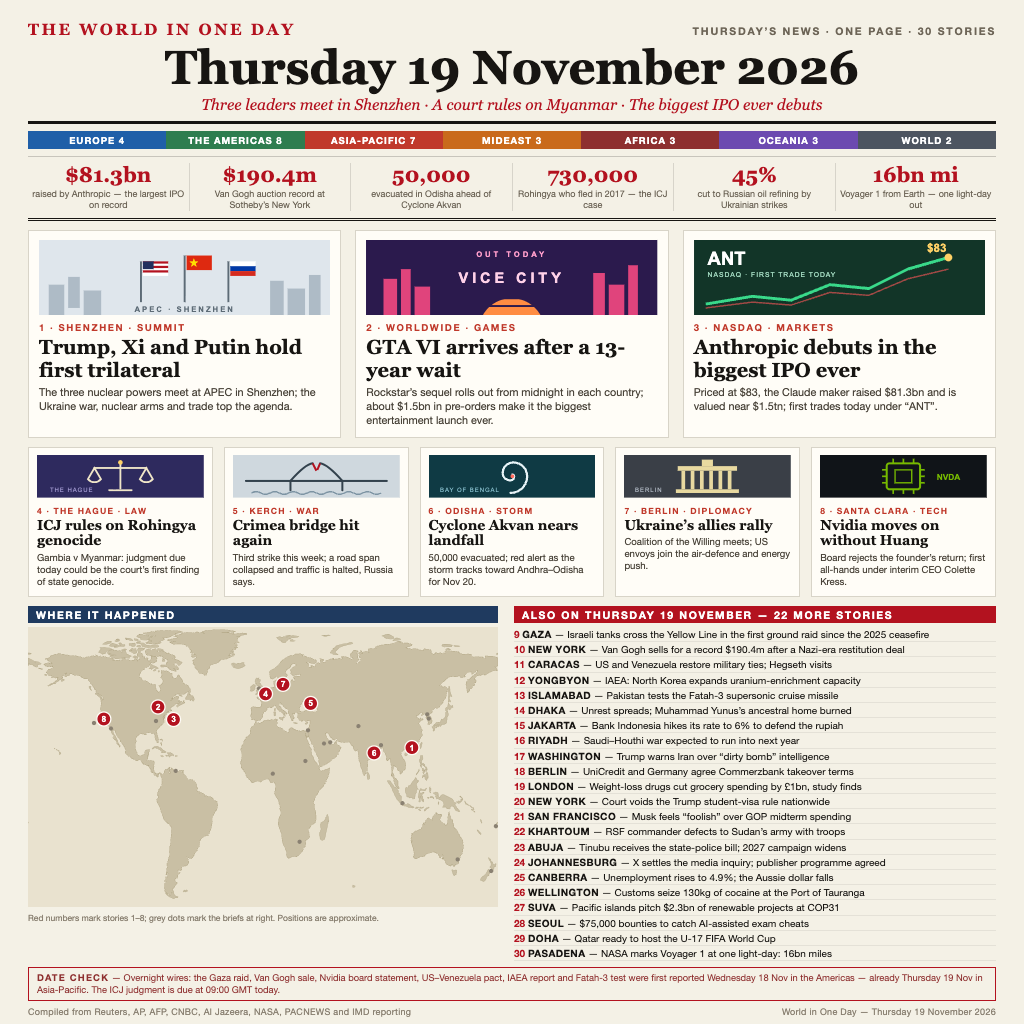
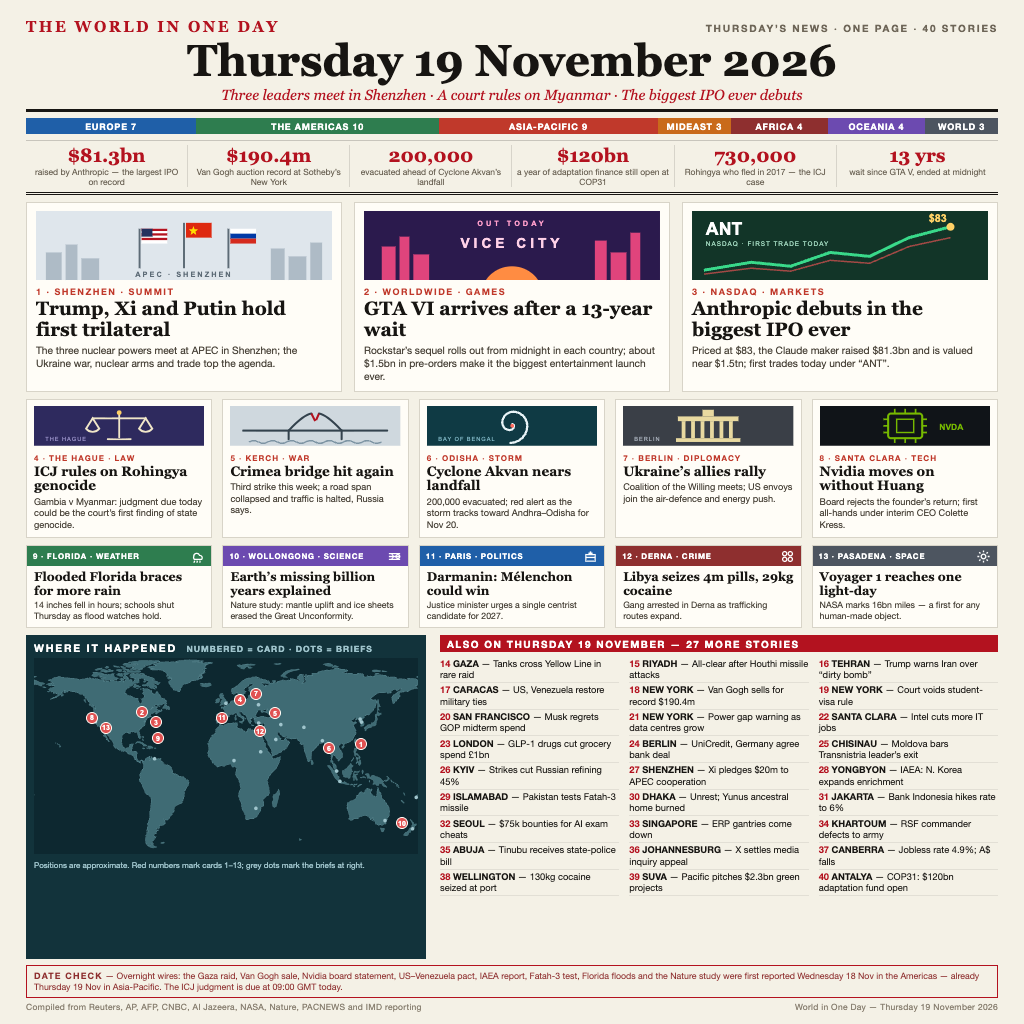
feat: 40-story front page — 13 illustrated cards, stats band, map panel, 27 briefs

diff --git a/README.md b/README.md
@@ -4,7 +4,7 @@
 [![rank](https://make.fun/badge/news-image-20261119/aliftrd/news-image-20261119/rank.svg)](https://make.fun/bounty/news-image-20261119/leaderboard?utm_source=github&utm_medium=readme&utm_campaign=news-image-20261119)
 [![reward](https://make.fun/badge/news-image-20261119/aliftrd/news-image-20261119/reward.svg)](https://make.fun/bounty/news-image-20261119?utm_source=github&utm_medium=readme&utm_campaign=news-image-20261119)
 
-A one-day world-news digest: the program copies a rendered 1024×1024 front page — 30 stories across seven regions with original vector illustrations, a stats band, a numbered world map and a date-check note, led by the Trump–Xi–Putin trilateral at APEC Shenzhen, the ICJ's Rohingya genocide judgment and Anthropic's record IPO debut — to `/output/entry.png`, byte for byte, with no network.
+A one-day world-news digest: the program copies a rendered 1024×1024 front page — 40 stories across seven regions: 13 illustrated cards, a stats band, a numbered world-map panel, 27 one-line briefs and a date-check note, led by the Trump–Xi–Putin trilateral at APEC Shenzhen, the ICJ's Rohingya genocide judgment and Anthropic's record IPO debut — to `/output/entry.png`, byte for byte, with no network.
 
 ## Run it
 
